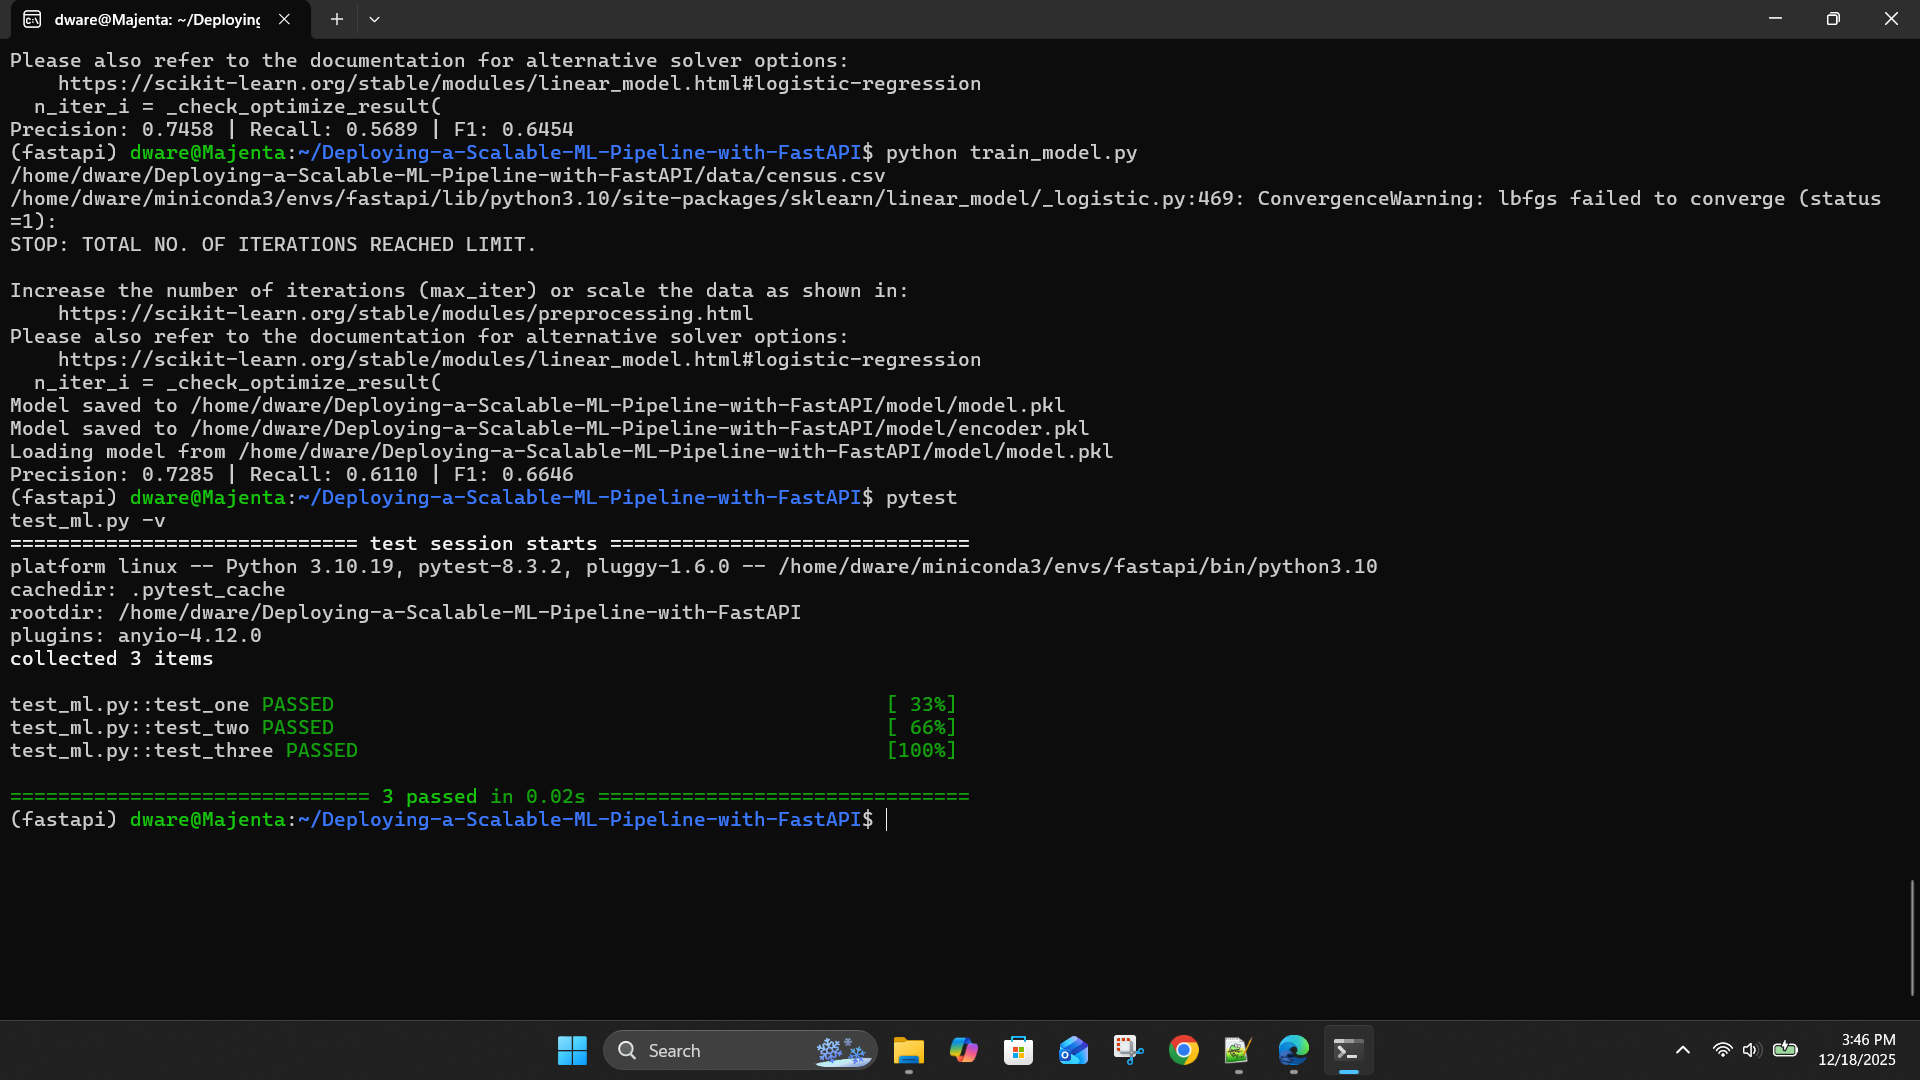
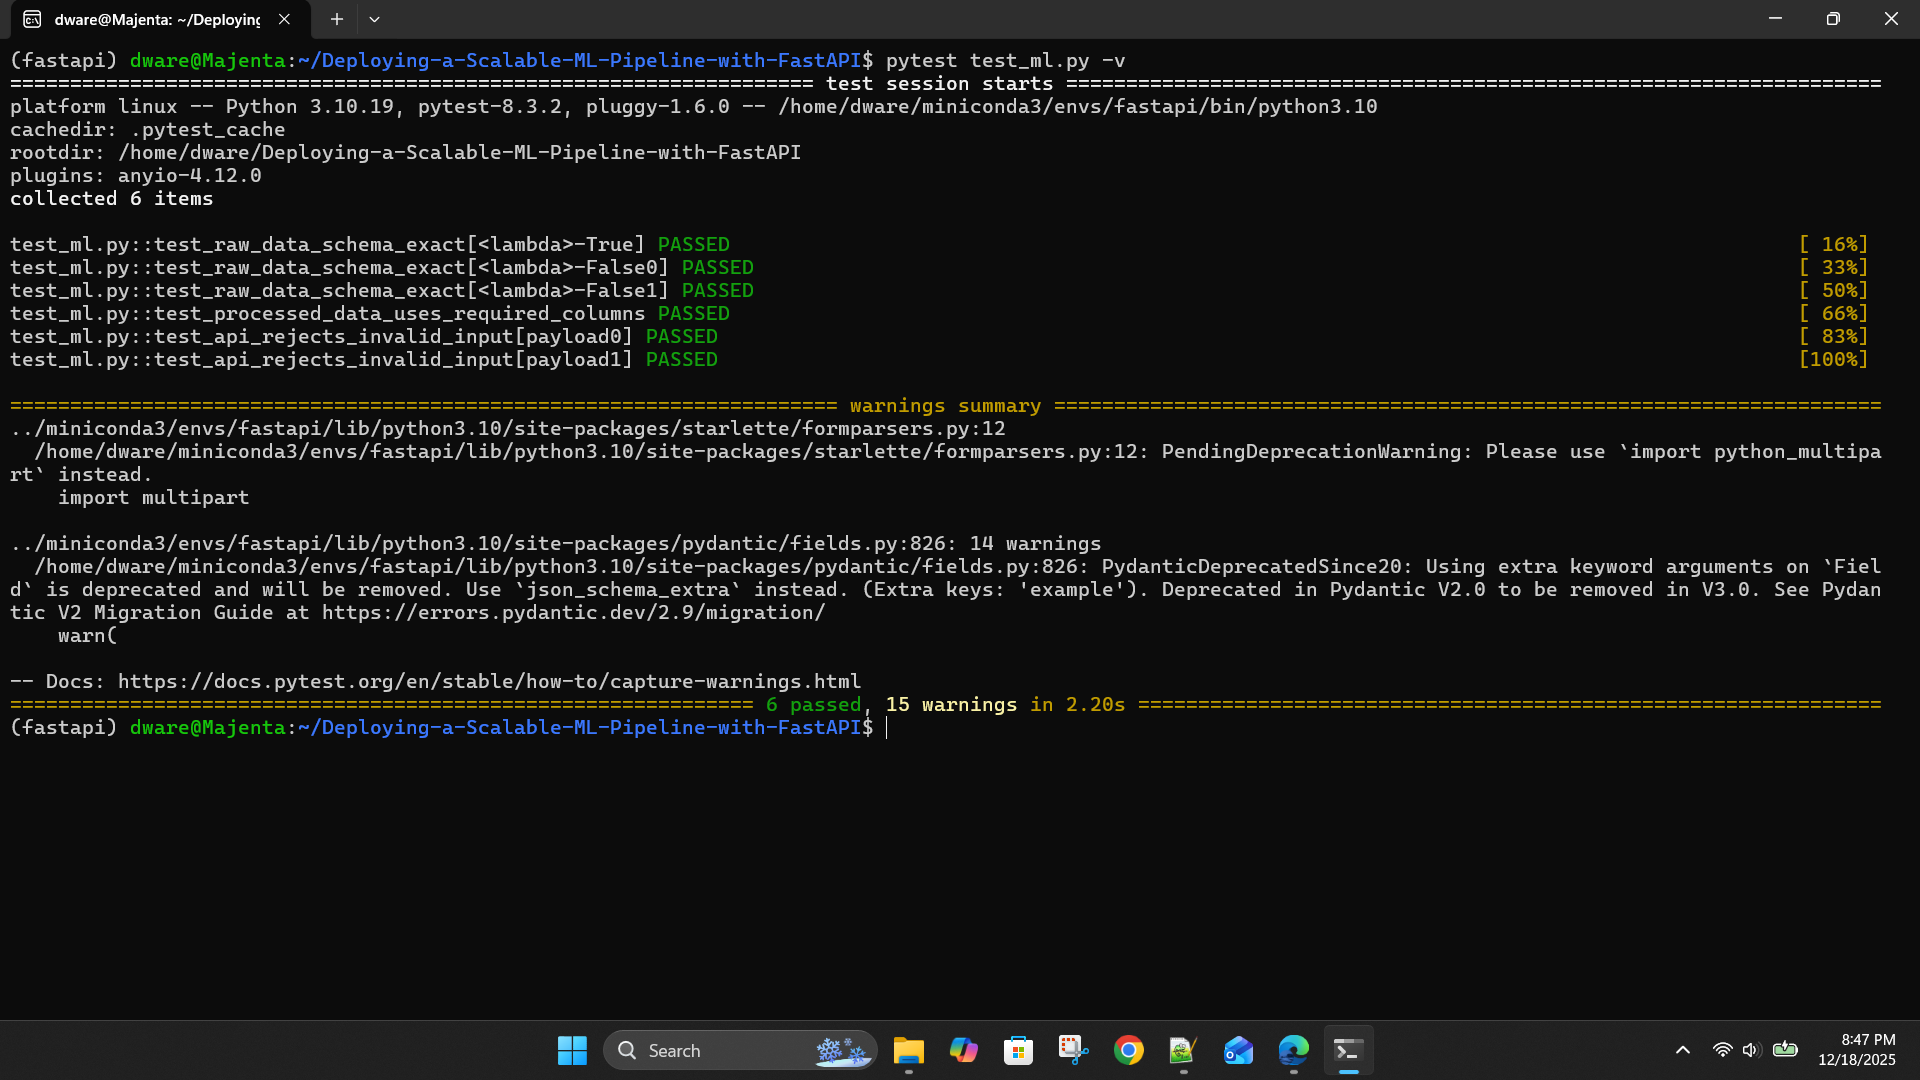
Add unit test to test_ml, run tests, updated unit_test screenshot

diff --git a/test_ml.py b/test_ml.py
@@ -1,28 +1,117 @@
 import pytest
+
 # TODO: add necessary import
+import pandas as pd
+from fastapi.testclient import TestClient
+
+from ml.data import process_data
+from main import app
+
+
+REQUIRED_COLUMNS = {
+    "age",
+    "workclass",
+    "education",
+    "marital-status",
+    "occupation",
+    "relationship",
+    "race",
+    "sex",
+    "salary",
+    }
+
+CATEGORICAL_FEATURES = [
+    "workclass",
+    "education",
+    "marital-status",
+    "occupation",
+    "relationship",
+    "race",
+    "sex",
+    ]
+
+@pytest.fixture(scope="module")
+def client():
+    """FastAPI test client fixture."""
+    return TestClient(app)
+
+
+@pytest.fixture
+def raw_df():
+    """Minimal raw input dataframe with the required schema."""
+    return pd.DataFrame(
+        {
+            "age": [30],
+            "workclass": ["Private"],
+            "education": ["HS-grad"],
+            "marital-status": ["Never-married"],
+            "occupation": ["Sales"],
+            "relationship": ["Not-in-family"],
+            "race": ["White"],
+            "sex": ["Male"],
+            "salary": [0],
+        }
+    )
+
+
+@pytest.fixture
+def train_df():
+    """Small training dataframe used for process_data unit tests."""
+    return pd.DataFrame(
+        {
+            "age": [30, 50],
+            "workclass": ["Private", "Self-emp-inc"],
+            "education": ["HS-grad", "Doctorate"],
+            "marital-status": ["Never-married", "Married-civ-spouse"],
+            "occupation": ["Sales", "Exec-managerial"],
+            "relationship": ["Not-in-family", "Husband"],
+            "race": ["White", "White"],
+            "sex": ["Male", "Male"],
+            "salary": [0, 1],
+        }
+    )
+
+@pytest.mark.parametrize(
+    "mutation, expected_valid",
+    [
+        (lambda df: df, True),  # unchanged, should be valid
+        (lambda df: df.assign(extra_col=123), False),  # extra column, invalid
+        (lambda df: df.drop(columns=["education"]), False),  # missing column, invalid
+    ],
+    )
 
 # TODO: implement the first test. Change the function name and input as needed
-def test_one():
-    """
-    # add description for the first test
-    """
-    # Your code here
-    pass
 
+def test_raw_data_schema_exact(raw_df, mutation, expected_valid):
+    """Raw input data contains exactly the required columns (no missing, no extra)."""
+    df = mutation(raw_df.copy())
+    is_valid = set(df.columns) == REQUIRED_COLUMNS
+    assert is_valid == expected_valid
 
 # TODO: implement the second test. Change the function name and input as needed
-def test_two():
+def test_processed_data_uses_required_columns(train_df):
     """
-    # add description for the second test
+    process_data successfully processes the required columns and produces aligned outputs. Validates shape/row integrity and encoder configuration.
     """
-    # Your code here
-    pass
+    X, y, encoder, lb = process_data(
+        train_df,
+        categorical_features=CATEGORICAL_FEATURES,
+        label="salary",
+        training=True,
+    )
 
+    assert X.shape[0] == len(train_df)
+    assert y.shape[0] == len(train_df)
+    assert len(encoder.categories_) == len(CATEGORICAL_FEATURES)
 
 # TODO: implement the third test. Change the function name and input as needed
-def test_three():
-    """
-    # add description for the third test
-    """
-    # Your code here
-    pass
+@pytest.mark.parametrize("payload", [{}, {"age": 30}])
+def test_api_rejects_invalid_input(client, payload):
+    """API rejects invalid payloads with a validation error (422)."""
+    response = client.post("/data/", json=payload)
+    assert response.status_code == 422
+    assert "detail" in response.json()
+
+
+
+
